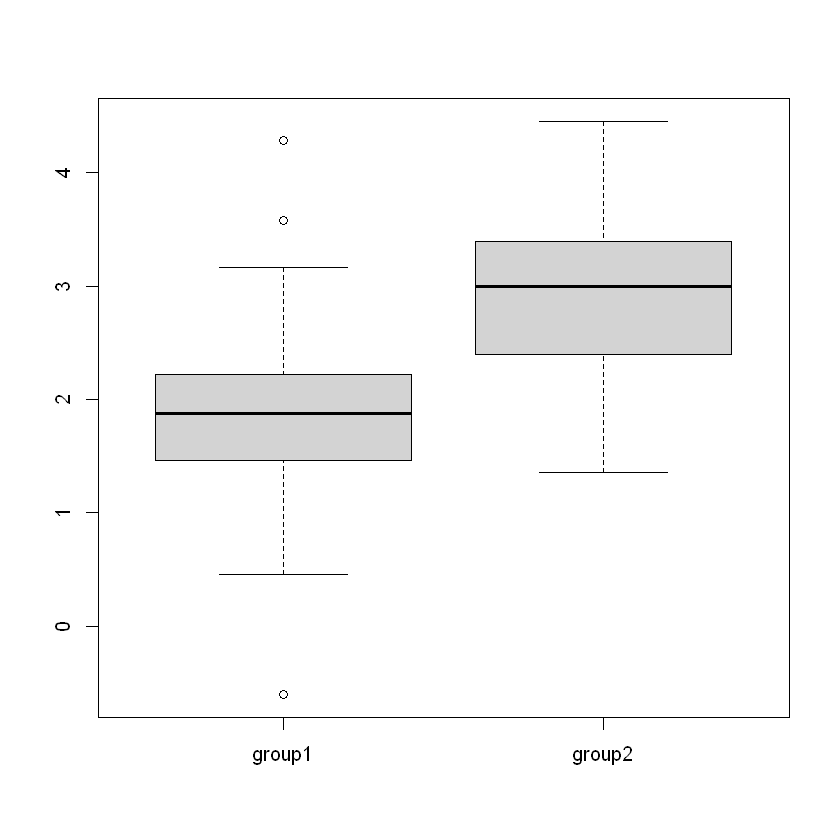
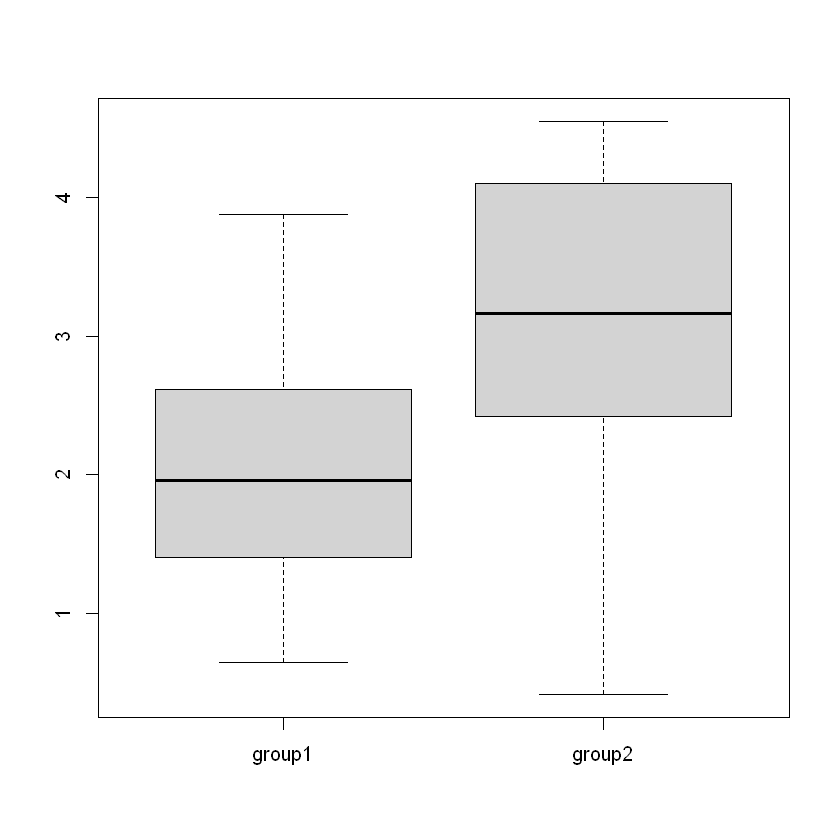
binf

diff --git a/binf8441/chap6.html b/binf8441/chap6.html
@@ -829,9 +829,43 @@ P\left(t&gt;a \mid H_{0}\right)=0.05
 \[
 \mathrm{H}_{0}: \mu=1 \text{ versus } \mathrm{H}_{1}: \mu&gt;1
 \]</div>
+<p>The Wald statistic takes the following form <span class="math notranslate nohighlight">\(W=\frac{\hat{\mu}-\mu_0}{\operatorname{sd}(\hat{\mu})}\)</span> where <span class="math notranslate nohighlight">\(\hat{\mu}\)</span> is the estimate of <span class="math notranslate nohighlight">\(\mu\)</span> and <span class="math notranslate nohighlight">\(\mu_0\)</span> is the expected value of <span class="math notranslate nohighlight">\(\mu\)</span> under the null hypothesis. In the one sample t-test, the estimate of <span class="math notranslate nohighlight">\(\mu\)</span> is the sample average <span class="math notranslate nohighlight">\(\bar{X}\)</span> and the expected value of <span class="math notranslate nohighlight">\(\mu\)</span> under the null hypothesis is <span class="math notranslate nohighlight">\(\mu_0=1\)</span>.</p>
 <p>Test-stat: <span class="math notranslate nohighlight">\(t=\frac{\bar{x}-1} {sd(\bar{x})}\)</span>. The null distribution of <span class="math notranslate nohighlight">\(t\)</span> is the student <span class="math notranslate nohighlight">\(t\)</span> distribution with degrees of freedom <span class="math notranslate nohighlight">\((n-1)\)</span>.</p>
-<p>Rejection region: we reject the null if <span class="math notranslate nohighlight">\(t&gt;a\)</span>, where <span class="math notranslate nohighlight">\(a\)</span> is the 95% quantile of the null distribution of the test statistic.</p>
+<p>Rejection region: we reject the null if <span class="math notranslate nohighlight">\(t&gt;a\)</span>. We find the value of <span class="math notranslate nohighlight">\(a\)</span> by controling the type I error at the level of 5%, i.e.,</p>
+<div class="math notranslate nohighlight">
+\[P(t&gt;a|H_0) = 0.05\]</div>
+<p>Thus, <span class="math notranslate nohighlight">\(a\)</span> is the 95% quantile of the null distribution of the test statistic <span class="math notranslate nohighlight">\(t\)</span>.</p>
+<div class="cell docutils container">
+<div class="cell_input docutils container">
+<div class="highlight-r notranslate"><div class="highlight"><pre><span></span><span class="n">x</span> <span class="o">&lt;-</span> <span class="nf">seq</span><span class="p">(</span><span class="m">-3</span><span class="p">,</span> <span class="m">3</span><span class="p">,</span> <span class="n">by</span> <span class="o">=</span> <span class="n">.</span><span class="m">1</span><span class="p">)</span>
+<span class="n">y</span> <span class="o">&lt;-</span> <span class="nf">dnorm</span><span class="p">(</span><span class="n">x</span><span class="p">,</span> <span class="n">mean</span> <span class="o">=</span> <span class="m">0</span><span class="p">,</span> <span class="n">sd</span> <span class="o">=</span> <span class="m">1</span><span class="p">)</span>
+<span class="nf">plot</span><span class="p">(</span><span class="n">x</span><span class="p">,</span><span class="n">y</span><span class="p">,</span><span class="n">type</span><span class="o">=</span><span class="s">&quot;l&quot;</span><span class="p">,</span><span class="n">col</span><span class="o">=</span><span class="s">&quot;blue&quot;</span><span class="p">,</span><span class="n">ylab</span><span class="o">=</span><span class="s">&quot;the null distribution of test statistic t&quot;</span><span class="p">,</span><span class="n">xlab</span><span class="o">=</span><span class="s">&quot;t&quot;</span><span class="p">)</span>
+<span class="nf">lines</span><span class="p">(</span><span class="nf">c</span><span class="p">(</span><span class="m">2</span><span class="p">,</span><span class="m">2</span><span class="p">),</span><span class="nf">c</span><span class="p">(</span><span class="m">0</span><span class="p">,</span><span class="m">0.4</span><span class="p">),</span><span class="n">col</span><span class="o">=</span><span class="s">&quot;red&quot;</span><span class="p">)</span>
+<span class="nf">text</span><span class="p">(</span><span class="m">2.3</span><span class="p">,</span><span class="m">0.005</span><span class="p">,</span><span class="n">labels</span><span class="o">=</span><span class="s">&quot;5%&quot;</span><span class="p">,</span> <span class="n">col</span><span class="o">=</span><span class="s">&quot;red&quot;</span><span class="p">)</span>
+<span class="nf">text</span><span class="p">(</span><span class="m">0</span><span class="p">,</span><span class="m">0.15</span><span class="p">,</span><span class="n">labels</span><span class="o">=</span><span class="s">&quot;95%&quot;</span><span class="p">,</span> <span class="n">col</span><span class="o">=</span><span class="s">&quot;red&quot;</span><span class="p">)</span>
+</pre></div>
+</div>
+</div>
+<div class="cell_output docutils container">
+<img alt="_images/chap6_1_0.png" src="_images/chap6_1_0.png" />
+</div>
+</div>
 <p>If the alternative is H1: <span class="math notranslate nohighlight">\(\mu&lt;1\)</span>, we only need to change the rejection region and we reject the null if <span class="math notranslate nohighlight">\(t&lt;a\)</span> where <span class="math notranslate nohighlight">\(a\)</span> is the 5% quantile of the null distribution of the test statistic.</p>
+<div class="cell docutils container">
+<div class="cell_input docutils container">
+<div class="highlight-r notranslate"><div class="highlight"><pre><span></span><span class="n">x</span> <span class="o">&lt;-</span> <span class="nf">seq</span><span class="p">(</span><span class="m">-3</span><span class="p">,</span> <span class="m">3</span><span class="p">,</span> <span class="n">by</span> <span class="o">=</span> <span class="n">.</span><span class="m">1</span><span class="p">)</span>
+<span class="n">y</span> <span class="o">&lt;-</span> <span class="nf">dnorm</span><span class="p">(</span><span class="n">x</span><span class="p">,</span> <span class="n">mean</span> <span class="o">=</span> <span class="m">0</span><span class="p">,</span> <span class="n">sd</span> <span class="o">=</span> <span class="m">1</span><span class="p">)</span>
+<span class="nf">plot</span><span class="p">(</span><span class="n">x</span><span class="p">,</span><span class="n">y</span><span class="p">,</span><span class="n">type</span><span class="o">=</span><span class="s">&quot;l&quot;</span><span class="p">,</span><span class="n">col</span><span class="o">=</span><span class="s">&quot;blue&quot;</span><span class="p">,</span><span class="n">ylab</span><span class="o">=</span><span class="s">&quot;the null distribution of test statistic t&quot;</span><span class="p">,</span><span class="n">xlab</span><span class="o">=</span><span class="s">&quot;t&quot;</span><span class="p">)</span>
+<span class="nf">lines</span><span class="p">(</span><span class="nf">c</span><span class="p">(</span><span class="m">-2</span><span class="p">,</span><span class="m">-2</span><span class="p">),</span><span class="nf">c</span><span class="p">(</span><span class="m">0</span><span class="p">,</span><span class="m">0.4</span><span class="p">),</span><span class="n">col</span><span class="o">=</span><span class="s">&quot;red&quot;</span><span class="p">)</span>
+<span class="nf">text</span><span class="p">(</span><span class="m">-2.3</span><span class="p">,</span><span class="m">0.005</span><span class="p">,</span><span class="n">labels</span><span class="o">=</span><span class="s">&quot;5%&quot;</span><span class="p">,</span> <span class="n">col</span><span class="o">=</span><span class="s">&quot;red&quot;</span><span class="p">)</span>
+<span class="nf">text</span><span class="p">(</span><span class="m">0</span><span class="p">,</span><span class="m">0.15</span><span class="p">,</span><span class="n">labels</span><span class="o">=</span><span class="s">&quot;95%&quot;</span><span class="p">,</span> <span class="n">col</span><span class="o">=</span><span class="s">&quot;red&quot;</span><span class="p">)</span>
+</pre></div>
+</div>
+</div>
+<div class="cell_output docutils container">
+<img alt="_images/chap6_3_0.png" src="_images/chap6_3_0.png" />
+</div>
+</div>
 <p>Here, we use the rejection region to make decisions. Alternatively, we may calculate the pvalue and reject the null if <span class="math notranslate nohighlight">\(\text{pvalue}\le 0.05\)</span>. The pvalue is an estimate of the Type I error, defined as</p>
 <div class="math notranslate nohighlight">
 \[ pvalue = P(\text{rejection region} | H_0)\]</div>
@@ -847,13 +881,13 @@ P\left(t&gt;a \mid H_{0}\right)=0.05
 <div class="output text_plain highlight-myst-ansi notranslate"><div class="highlight"><pre><span></span>	One Sample t-test
 
 data:  data
-t = -4.3178, df = 19, p-value = 0.0001855
+t = -4.7965, df = 19, p-value = 6.273e-05
 alternative hypothesis: true mean is less than 3
 95 percent confidence interval:
-     -Inf 2.463242
+     -Inf 2.192702
 sample estimates:
 mean of x 
-  2.10471 
+ 1.737612 
 </pre></div>
 </div>
 </div>
@@ -869,6 +903,23 @@ mean of x
 <p>Rejection region: we reject the null if <span class="math notranslate nohighlight">\(t&gt;a\)</span> or <span class="math notranslate nohighlight">\(t&lt;b\)</span>, where <span class="math notranslate nohighlight">\(a\)</span> is the 97.5% quantile and <span class="math notranslate nohighlight">\(b\)</span> is the 2.5% quantile of the null distribution of the test statistic.</p>
 <div class="cell docutils container">
 <div class="cell_input docutils container">
+<div class="highlight-r notranslate"><div class="highlight"><pre><span></span><span class="n">x</span> <span class="o">&lt;-</span> <span class="nf">seq</span><span class="p">(</span><span class="m">-3</span><span class="p">,</span> <span class="m">3</span><span class="p">,</span> <span class="n">by</span> <span class="o">=</span> <span class="n">.</span><span class="m">1</span><span class="p">)</span>
+<span class="n">y</span> <span class="o">&lt;-</span> <span class="nf">dnorm</span><span class="p">(</span><span class="n">x</span><span class="p">,</span> <span class="n">mean</span> <span class="o">=</span> <span class="m">0</span><span class="p">,</span> <span class="n">sd</span> <span class="o">=</span> <span class="m">1</span><span class="p">)</span>
+<span class="nf">plot</span><span class="p">(</span><span class="n">x</span><span class="p">,</span><span class="n">y</span><span class="p">,</span><span class="n">type</span><span class="o">=</span><span class="s">&quot;l&quot;</span><span class="p">,</span><span class="n">col</span><span class="o">=</span><span class="s">&quot;blue&quot;</span><span class="p">,</span><span class="n">ylab</span><span class="o">=</span><span class="s">&quot;the null distribution of test statistic t&quot;</span><span class="p">,</span><span class="n">xlab</span><span class="o">=</span><span class="s">&quot;t&quot;</span><span class="p">)</span>
+<span class="nf">lines</span><span class="p">(</span><span class="nf">c</span><span class="p">(</span><span class="m">2.5</span><span class="p">,</span><span class="m">2.5</span><span class="p">),</span><span class="nf">c</span><span class="p">(</span><span class="m">0</span><span class="p">,</span><span class="m">0.4</span><span class="p">),</span><span class="n">col</span><span class="o">=</span><span class="s">&quot;red&quot;</span><span class="p">)</span>
+<span class="nf">lines</span><span class="p">(</span><span class="nf">c</span><span class="p">(</span><span class="m">-2.5</span><span class="p">,</span><span class="m">-2.5</span><span class="p">),</span><span class="nf">c</span><span class="p">(</span><span class="m">0</span><span class="p">,</span><span class="m">0.4</span><span class="p">),</span><span class="n">col</span><span class="o">=</span><span class="s">&quot;red&quot;</span><span class="p">)</span>
+<span class="nf">text</span><span class="p">(</span><span class="m">2.7</span><span class="p">,</span><span class="m">0.005</span><span class="p">,</span><span class="n">labels</span><span class="o">=</span><span class="s">&quot;2.5%&quot;</span><span class="p">,</span> <span class="n">col</span><span class="o">=</span><span class="s">&quot;red&quot;</span><span class="p">)</span>
+<span class="nf">text</span><span class="p">(</span><span class="m">-2.7</span><span class="p">,</span><span class="m">0.005</span><span class="p">,</span><span class="n">labels</span><span class="o">=</span><span class="s">&quot;2.5%&quot;</span><span class="p">,</span> <span class="n">col</span><span class="o">=</span><span class="s">&quot;red&quot;</span><span class="p">)</span>
+<span class="nf">text</span><span class="p">(</span><span class="m">0</span><span class="p">,</span><span class="m">0.15</span><span class="p">,</span><span class="n">labels</span><span class="o">=</span><span class="s">&quot;95%&quot;</span><span class="p">,</span> <span class="n">col</span><span class="o">=</span><span class="s">&quot;red&quot;</span><span class="p">)</span>
+</pre></div>
+</div>
+</div>
+<div class="cell_output docutils container">
+<img alt="_images/chap6_7_0.png" src="_images/chap6_7_0.png" />
+</div>
+</div>
+<div class="cell docutils container">
+<div class="cell_input docutils container">
 <div class="highlight-r notranslate"><div class="highlight"><pre><span></span><span class="n">data</span> <span class="o">=</span> <span class="nf">rnorm</span><span class="p">(</span><span class="m">20</span><span class="p">,</span> <span class="n">mean</span><span class="o">=</span><span class="m">2</span><span class="p">,</span> <span class="n">sd</span> <span class="o">=</span> <span class="m">1</span><span class="p">)</span>
 <span class="nf">t.test</span><span class="p">(</span><span class="n">data</span><span class="p">,</span> <span class="n">mu</span> <span class="o">=</span> <span class="m">3</span><span class="p">,</span> <span class="n">alternative</span><span class="o">=</span><span class="s">&quot;two.sided&quot;</span><span class="p">)</span>
 </pre></div>
@@ -878,13 +929,13 @@ mean of x
 <div class="output text_plain highlight-myst-ansi notranslate"><div class="highlight"><pre><span></span>	One Sample t-test
 
 data:  data
-t = -3.7972, df = 19, p-value = 0.001217
+t = -4.0028, df = 19, p-value = 0.0007613
 alternative hypothesis: true mean is not equal to 3
 95 percent confidence interval:
- 1.639641 2.606414
+ 1.338459 2.479451
 sample estimates:
 mean of x 
- 2.123027 
+ 1.908955 
 </pre></div>
 </div>
 </div>
@@ -929,16 +980,16 @@ H_0: \mu_1 = \mu_2 \text{ versus } H_1: \mu_1 &lt; \mu_2
 <div class="output text_plain highlight-myst-ansi notranslate"><div class="highlight"><pre><span></span>	Welch Two Sample t-test
 
 data:  group1 and group2
-t = -4.6576, df = 37.367, p-value = 1
+t = -1.2316, df = 37.951, p-value = 0.8872
 alternative hypothesis: true difference in means is greater than 0
 95 percent confidence interval:
- -1.893748       Inf
+ -1.012075       Inf
 sample estimates:
 mean of x mean of y 
- 1.710340  3.100625 
+ 2.389405  2.816632 
 </pre></div>
 </div>
-<img alt="_images/chap6_5_1.png" src="_images/chap6_5_1.png" />
+<img alt="_images/chap6_10_1.png" src="_images/chap6_10_1.png" />
 </div>
 </div>
 </section>
@@ -960,13 +1011,13 @@ H_0: \mu_1 = \mu_2 \text{ versus } H_1: \mu_1 \ne \mu_2
 <div class="output text_plain highlight-myst-ansi notranslate"><div class="highlight"><pre><span></span>	Welch Two Sample t-test
 
 data:  group1 and group2
-t = -4.6576, df = 37.367, p-value = 3.967e-05
+t = -1.2316, df = 37.951, p-value = 0.2257
 alternative hypothesis: true difference in means is not equal to 0
 95 percent confidence interval:
- -1.9948940 -0.7856743
+ -1.1294855  0.2750311
 sample estimates:
 mean of x mean of y 
- 1.710340  3.100625 
+ 2.389405  2.816632 
 </pre></div>
 </div>
 </div>
@@ -1005,13 +1056,13 @@ mean of x mean of y
 </div>
 <div class="cell_output docutils container">
 <div class="output text_plain highlight-myst-ansi notranslate"><div class="highlight"><pre><span></span>            Df Sum Sq Mean Sq F value   Pr(&gt;F)    
-group        2  38.05  19.024   19.87 2.84e-07 ***
-Residuals   57  54.58   0.958                     
+group        2  34.59  17.293   20.81 1.64e-07 ***
+Residuals   57  47.36   0.831                     
 ---
 Signif. codes:  0 &#39;***&#39; 0.001 &#39;**&#39; 0.01 &#39;*&#39; 0.05 &#39;.&#39; 0.1 &#39; &#39; 1
 </pre></div>
 </div>
-<img alt="_images/chap6_9_1.png" src="_images/chap6_9_1.png" />
+<img alt="_images/chap6_14_1.png" src="_images/chap6_14_1.png" />
 </div>
 </div>
 </section>
@@ -1114,7 +1165,7 @@ t=2 \log \left(l_{1}\right)-2 \log \left(l_{0}\right)=\frac{-2 \sum_{i=1}^{n} x_
 </div>
 </div>
 <div class="cell_output docutils container">
-<div class="output stream highlight-myst-ansi notranslate"><div class="highlight"><pre><span></span>[1] &quot;the test statistic is -9.34749303795088 and the critical value a = 3.84145882069412&quot;
+<div class="output stream highlight-myst-ansi notranslate"><div class="highlight"><pre><span></span>[1] &quot;the test statistic is -34.631359173196 and the critical value a = 3.84145882069412&quot;
 </pre></div>
 </div>
 </div>
@@ -1149,7 +1200,7 @@ t=2 \log \left(l_{1}\right)-2 \log \left(l_{0}\right)=\frac{-2 \sum_{i=1}^{n} x_
 </div>
 </div>
 <div class="cell_output docutils container">
-<div class="output stream highlight-myst-ansi notranslate"><div class="highlight"><pre><span></span>[1] &quot;the test statistic is 10.132803346555 and the critical value a = 3.84145882069412&quot;
+<div class="output stream highlight-myst-ansi notranslate"><div class="highlight"><pre><span></span>[1] &quot;the test statistic is 17.3215346675591 and the critical value a = 3.84145882069412&quot;
 </pre></div>
 </div>
 </div>
